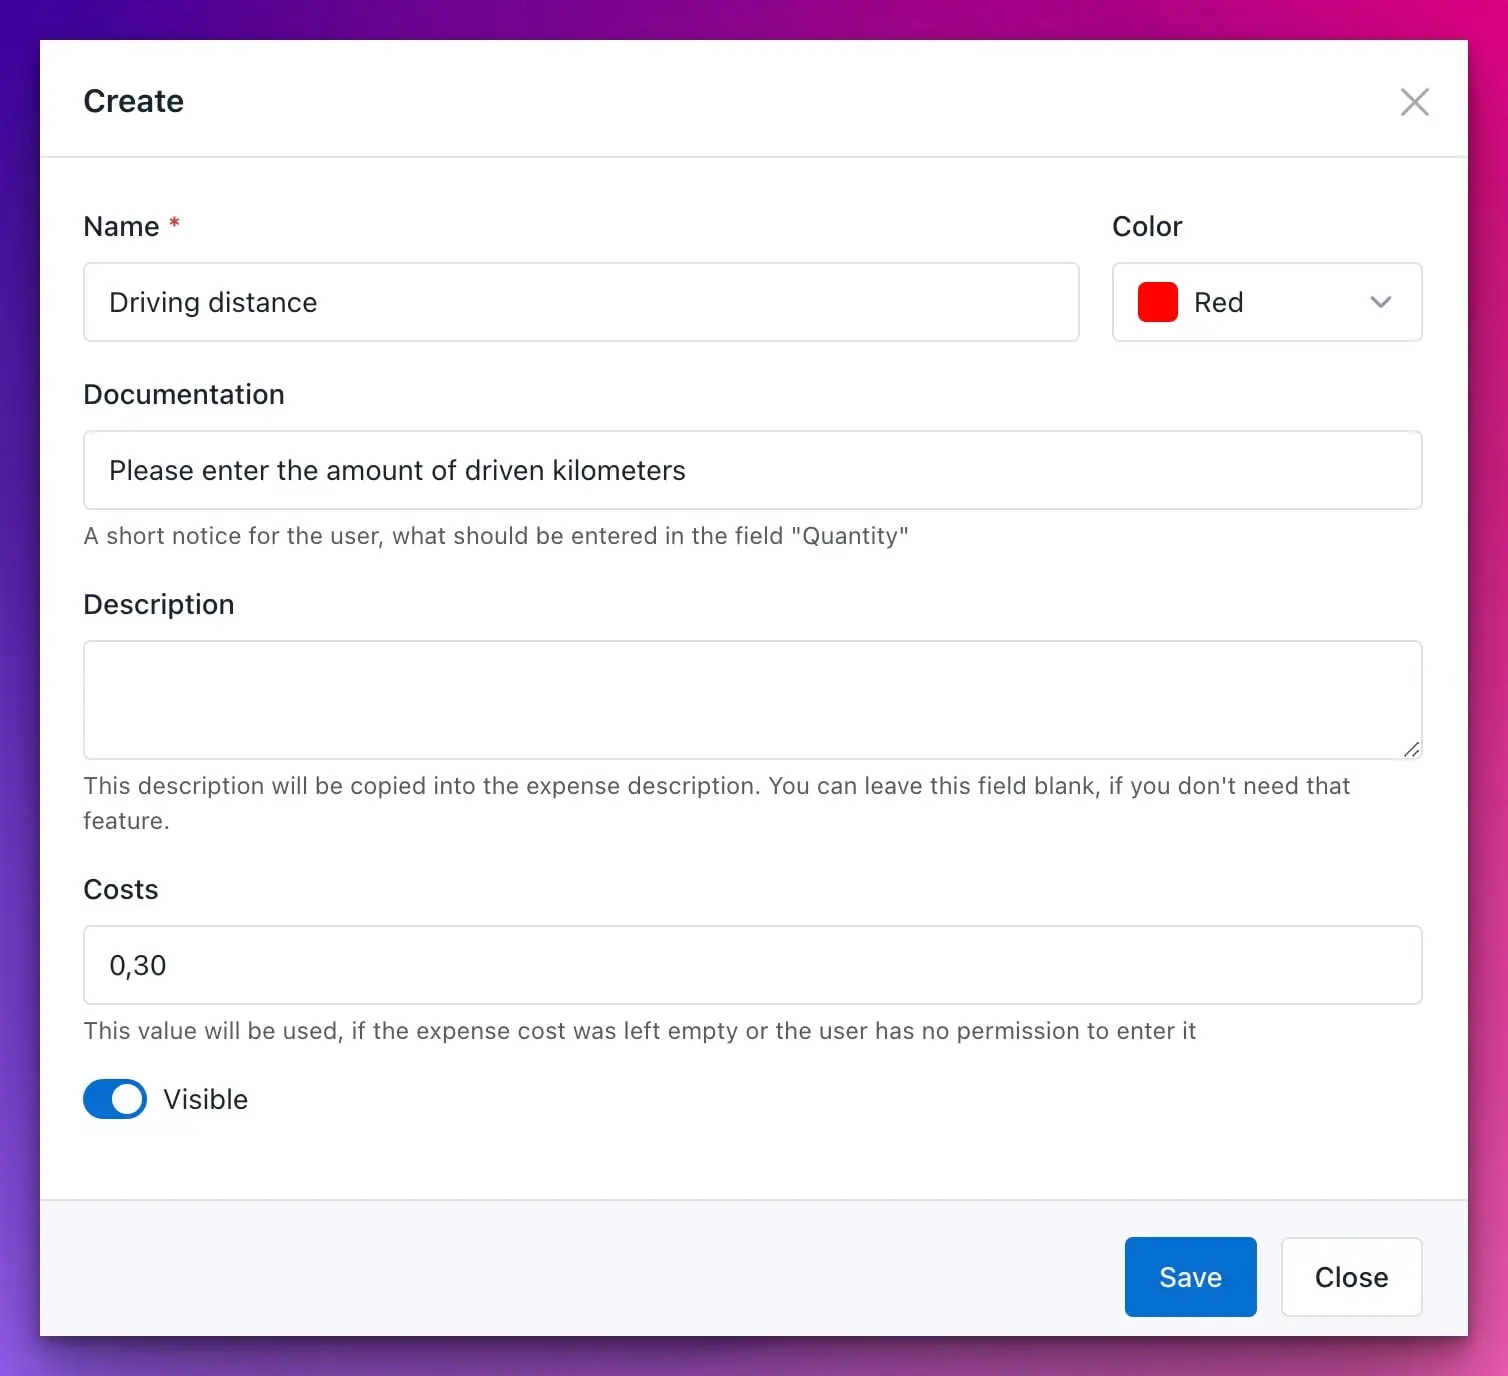
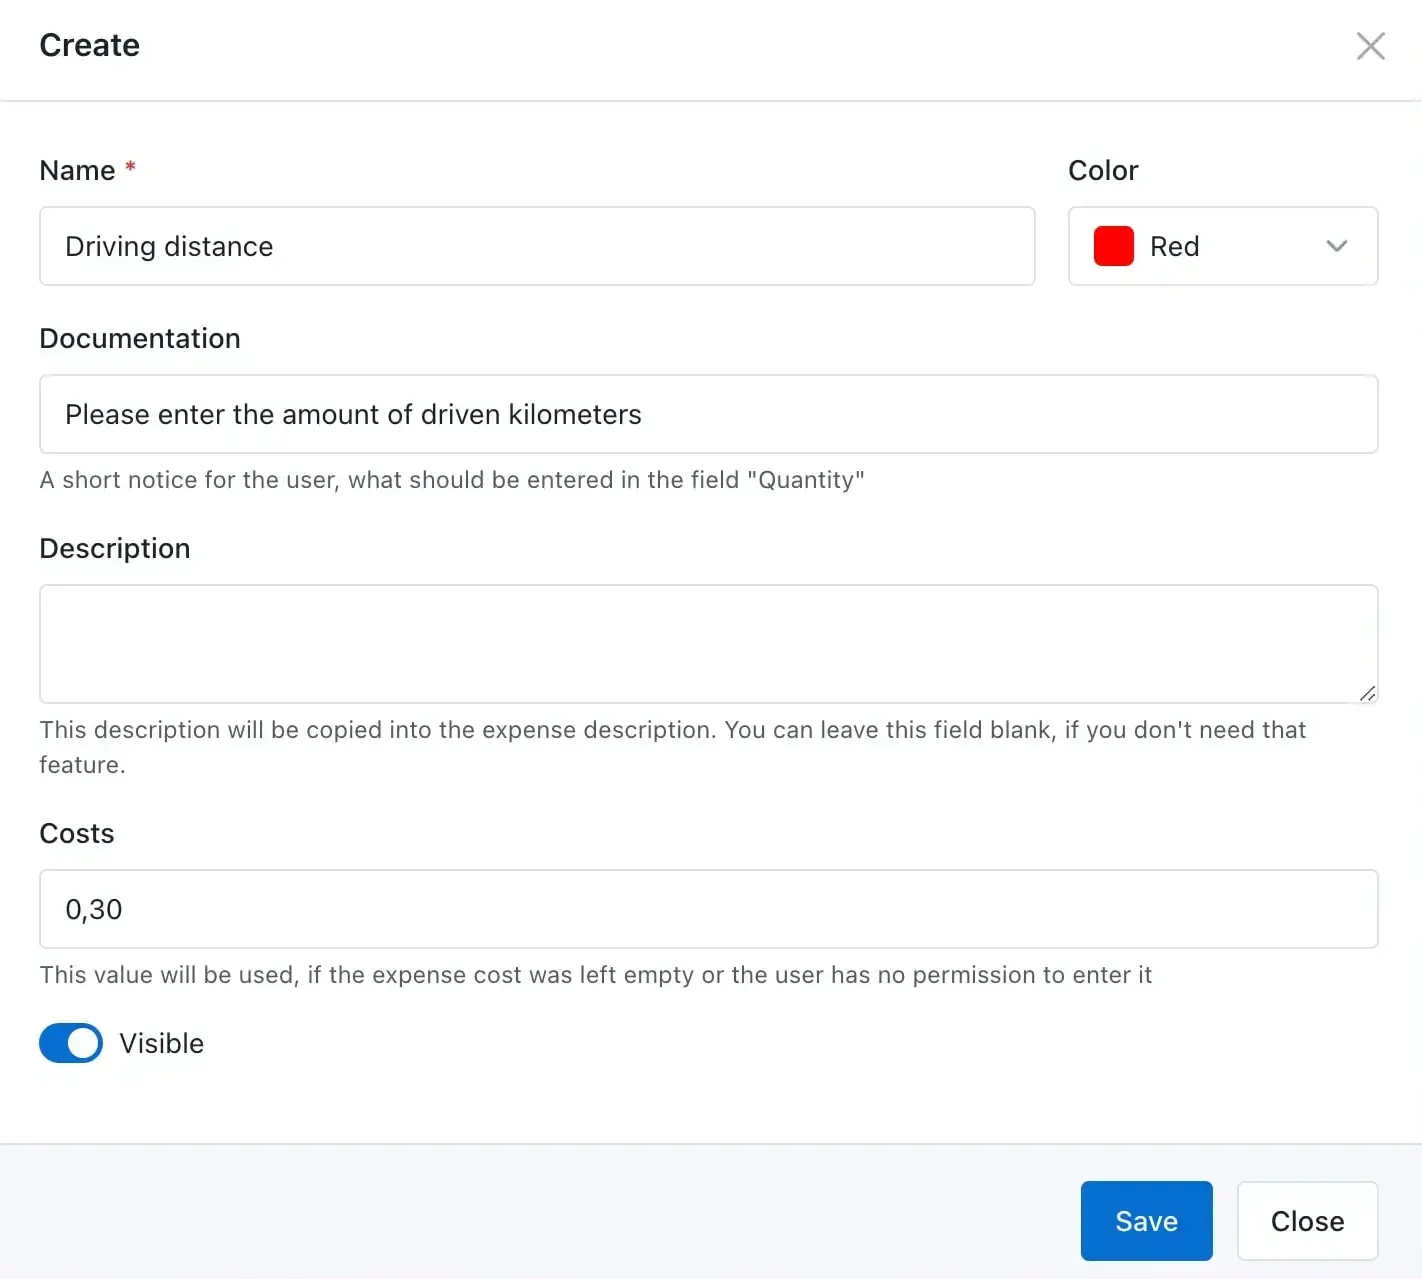
unify documentation images

Changed region(s): [[0.0, 0.0, 1.0, 1.0], [0.7426, 0.122, 0.8354, 0.2439], [0.8973, 0.2134, 0.9283, 0.2439]]

diff --git a/_includes/docs-image.html b/_includes/docs-image.html
@@ -1,5 +1,5 @@
 {% if include.src %}
-<figure class="d-block figure mb-3"{% if include.width %} style="max-width: {{ include.width }}"{% endif %}>
+<figure class="d-block figure mb-3" style="max-width: {% if include.width %}{{ include.width }}{% else %}800px{% endif %}">
     <img src="{{ include.src }}"{% if include.alt %} alt="{{ include.alt }}"{% endif %} class="figure-img img-fluid rounded border border-primary border-3 p-2">
     <figcaption class="figure-caption">{{ include.title }}</figcaption>
 </figure>

diff --git a/collections/_documentation/saml-adfs.md b/collections/_documentation/saml-adfs.md
@@ -88,26 +88,26 @@ kimai:
 
 ### ADFS Setup
 
-{% include docs-image.html src="/images/documentation/adfs-saml-pic1.webp" title="Add Relying Party Trust" width="1000px" %}
-{% include docs-image.html src="/images/documentation/adfs-saml-pic2.webp" title="Select Data Source 1" width="1000px" %}
-{% include docs-image.html src="/images/documentation/adfs-saml-pic3.webp" title="Specific Display Name" width="1000px" %}
-{% include docs-image.html src="/images/documentation/adfs-saml-pic4.webp" title="Choose Access Control Policy" width="1000px" %}
-{% include docs-image.html src="/images/documentation/adfs-saml-pic5.webp" title="Ready to Add Trust" width="1000px" %}
-{% include docs-image.html src="/images/documentation/adfs-saml-pic6.webp" title="Edit Claim Issuance Policy" width="1000px" %}
+{% include docs-image.html src="/images/documentation/adfs-saml-pic1.webp" title="Add Relying Party Trust" %}
+{% include docs-image.html src="/images/documentation/adfs-saml-pic2.webp" title="Select Data Source 1" %}
+{% include docs-image.html src="/images/documentation/adfs-saml-pic3.webp" title="Specific Display Name" %}
+{% include docs-image.html src="/images/documentation/adfs-saml-pic4.webp" title="Choose Access Control Policy" %}
+{% include docs-image.html src="/images/documentation/adfs-saml-pic5.webp" title="Ready to Add Trust" %}
+{% include docs-image.html src="/images/documentation/adfs-saml-pic6.webp" title="Edit Claim Issuance Policy" %}
 
 **Rule Template for Attributes**
 
-{% include docs-image.html src="/images/documentation/adfs-saml-pic7.webp" title="Send LDAP Attributes as Claims" width="1000px" %}
-{% include docs-image.html src="/images/documentation/adfs-saml-pic8.webp" title="Edit Rule - Attributes" width="1000px" %}
+{% include docs-image.html src="/images/documentation/adfs-saml-pic7.webp" title="Send LDAP Attributes as Claims" %}
+{% include docs-image.html src="/images/documentation/adfs-saml-pic8.webp" title="Edit Rule - Attributes" %}
 
 **Rule Template for Groups**
 
-{% include docs-image.html src="/images/documentation/adfs-saml-pic9.webp" title="Send Group Memberships as a Claim" width="1000px" %}
-{% include docs-image.html src="/images/documentation/adfs-saml-pic10.webp" title="Configure Claim Rule for Groups" width="1000px" %}
+{% include docs-image.html src="/images/documentation/adfs-saml-pic9.webp" title="Send Group Memberships as a Claim" %}
+{% include docs-image.html src="/images/documentation/adfs-saml-pic10.webp" title="Configure Claim Rule for Groups" %}
 
 **Apply Claim Issuance Policy**
 
-{% include docs-image.html src="/images/documentation/adfs-saml-pic11.webp" title="Apply Claim Issuance Policy" width="1000px" %}
+{% include docs-image.html src="/images/documentation/adfs-saml-pic11.webp" title="Apply Claim Issuance Policy" %}
 
 ### Test
 You should now be able to test the Login by visiting **https://timetracking.example.com/** and clicking on the `Login With ADFS` title of the SAML method, you defined earlier.

diff --git a/collections/_documentation/saml-azure.md b/collections/_documentation/saml-azure.md
@@ -29,11 +29,11 @@ This documentation is available in other languages as well [in the Microsoft doc
   **Note**: The name of the application has no technical effect, but could be displayed to users during login.
 - On the left navigation panel, select the **Microsoft Entra ID** service.
 - Navigate to **Enterprise Applications** and search for the app you just created
-{% include docs-image.html src="/images/documentation/azure-saml-pic1.webp" title="Find Kimai enterprise app" width="900px" %}
+{% include docs-image.html src="/images/documentation/azure-saml-pic1.webp" title="Find Kimai enterprise app" %}
 - Now navigate to **Single sign-on** on the left navigation and choose **SAML** as your choice: 
-{% include docs-image.html src="/images/documentation/azure-saml-pic2.webp" title="Select SAML" width="900px" %}
+{% include docs-image.html src="/images/documentation/azure-saml-pic2.webp" title="Select SAML" %}
 - Edit the **Basic SAML Configuration** at the top and add the required **URLs**:
-{% include docs-image.html src="/images/documentation/azure-saml-pic3.webp" title="Basic SAML configuration" width="900px" %}
+{% include docs-image.html src="/images/documentation/azure-saml-pic3.webp" title="Basic SAML configuration" %}
 
 | Setting                                    | Value                                               |
 |--------------------------------------------|-----------------------------------------------------|
@@ -44,11 +44,11 @@ This documentation is available in other languages as well [in the Microsoft doc
 {: .table }
 
 - Edit the **User Attributes & Claims** and ensure the following settings:
-{% include docs-image.html src="/images/documentation/azure-saml-pic4.webp" title="User Attributes & Claims" width="900px" %}
+{% include docs-image.html src="/images/documentation/azure-saml-pic4.webp" title="User Attributes & Claims" %}
 - Return to the **Single Sign-On** (visible in the left navigation panel) and download **Certificate (Base64)**:
-{% include docs-image.html src="/images/documentation/azure-saml-pic6.webp" title="Download Certificate" width="900px" %}
+{% include docs-image.html src="/images/documentation/azure-saml-pic6.webp" title="Download Certificate" %}
 - Copy the three values of **Set up Kimai**, as we will need them to configure Kimai:
-{% include docs-image.html src="/images/documentation/azure-saml-pic7.webp" title="Copy Azure URLs" width="900px" %}
+{% include docs-image.html src="/images/documentation/azure-saml-pic7.webp" title="Copy Azure URLs" %}
 
 ### Kimai Configuration
 
@@ -142,7 +142,7 @@ The example values for the group mapping from above:
 ```
 
 would lead with this Azure configuration
-{% include docs-image.html src="/images/documentation/azure-saml-groups.webp" title="Group IDs" width="900px" %}
+{% include docs-image.html src="/images/documentation/azure-saml-groups.webp" title="Group IDs" %}
 
 to this configuration:
 ```

diff --git a/collections/_documentation/saml-keycloak.md b/collections/_documentation/saml-keycloak.md
@@ -21,12 +21,12 @@ Screenshots might be outdated, please check the text version below each image.
 
 ## Add a client for Kimai SAML
 
-{% include docs-image.html src="/images/documentation/keycloak-saml-1.webp" title="Add a client" width="800px" %}
+{% include docs-image.html src="/images/documentation/keycloak-saml-1.webp" title="Add a client" %}
 
 ## Configure the client
 
-{% include docs-image.html src="/images/documentation/keycloak-saml-2.webp" title="Enable *Client Signature Required* (1)" width="900px" %}
-{% include docs-image.html src="/images/documentation/keycloak-saml-3.webp" title="Enable *Client Signature Required* (2)" width="900px" %}
+{% include docs-image.html src="/images/documentation/keycloak-saml-2.webp" title="Enable *Client Signature Required* (1)" %}
+{% include docs-image.html src="/images/documentation/keycloak-saml-3.webp" title="Enable *Client Signature Required* (2)" %}
 
 **Note**: The working setup uses **Client Signature Required** enabled, which works with signed AuthnRequests (`authnRequestsSigned: true` in Kimai configuration).
 
@@ -51,10 +51,10 @@ Remove the default `role list`, then add:
 - **X500 givenName** → `SAML Attribute Name: FirstName`, `SAML Attribute NameFormat: Unspecified`
 - **Role list** → `Role attribute name: Roles`, `SAML Attribute NameFormat: Unspecified`, `Single Role Attribute: On`
 
-{% include docs-image.html src="/images/documentation/keycloak-saml-4.webp" title="Kimai user attributes (listing)" width="1000px" %}
-{% include docs-image.html src="/images/documentation/keycloak-saml-5.webp" title="Kimai user attributes (X500 GivenName)" width="700px" %}
-{% include docs-image.html src="/images/documentation/keycloak-saml-6.webp" title="Kimai user attributes (X500 Surname)" width="700px" %}
-{% include docs-image.html src="/images/documentation/keycloak-saml-7.webp" title="Kimai user attributes (X500 Email)" width="700px" %}
+{% include docs-image.html src="/images/documentation/keycloak-saml-4.webp" title="Kimai user attributes (listing)" %}
+{% include docs-image.html src="/images/documentation/keycloak-saml-5.webp" title="Kimai user attributes (X500 GivenName)" %}
+{% include docs-image.html src="/images/documentation/keycloak-saml-6.webp" title="Kimai user attributes (X500 Surname)" %}
+{% include docs-image.html src="/images/documentation/keycloak-saml-7.webp" title="Kimai user attributes (X500 Email)" %}
 
 ## Client Scopes / Roles
 

diff --git a/collections/_documentation/cloud/cloud-saml.md b/collections/_documentation/cloud/cloud-saml.md
@@ -70,11 +70,11 @@ You can use other names for your groups, the mapping happens in the next step in
 
 This screenshot is a showcase of the attribute mapping including groups:
 
-{% include docs-image.html src="/images/documentation/cloud/saml-google-attributes.webp" title="Google - SAMl attribute mapping" width="800px" %}
+{% include docs-image.html src="/images/documentation/cloud/saml-google-attributes.webp" title="Google - SAMl attribute mapping" %}
 
 ### <span id="google-cloud"></span> Cloud configuration
 
-{% include docs-image.html src="/images/documentation/cloud/saml-google-cloud.webp" title="Google - Cloud configuration" width="800px" %}
+{% include docs-image.html src="/images/documentation/cloud/saml-google-cloud.webp" title="Google - Cloud configuration" %}
 
 ## <span id="microsoft-saml"></span> Microsoft SAML
 
@@ -108,7 +108,7 @@ This screenshot is a showcase of the attribute mapping including groups:
     - Microsoft Entra Identifier: `Azure AD Identifier (SAML Entity ID)`
 
 **Configure "Attributes & Claims":**
-{% include docs-image.html src="/images/documentation/cloud/saml-azure-attributes.webp" title="Azure - Attributes & Claims" width="800px" %}
+{% include docs-image.html src="/images/documentation/cloud/saml-azure-attributes.webp" title="Azure - Attributes & Claims" %}
 
 **Configure "Groups":**
 - In the "Azure Active Directory" section, choose "Groups" from the navigation.
@@ -117,11 +117,11 @@ This screenshot is a showcase of the attribute mapping including groups:
     - Set the name `Kimai Admin` and add members
     - Set the name `Kimai System-Admin` and add members
 - Copy & paste the `Object Id` of each group into the Cloud configuration (see screenshot below).
-  {% include docs-image.html src="/images/documentation/cloud/saml-azure-groups.webp" title="Azure - Groups" width="800px" %}
+  {% include docs-image.html src="/images/documentation/cloud/saml-azure-groups.webp" title="Azure - Groups" %}
 
 ### <span id="microsoft-cloud"></span> Cloud configuration
 
-{% include docs-image.html src="/images/documentation/cloud/saml-azure-cloud.webp" title="Azure - Cloud configuration" width="800px" %}
+{% include docs-image.html src="/images/documentation/cloud/saml-azure-cloud.webp" title="Azure - Cloud configuration" %}
 
 ## <span id="keycloak-saml"></span> Keycloak SAML
 

diff --git a/_includes/snippets/rates.md b/_includes/snippets/rates.md
@@ -5,7 +5,7 @@ Please read the [price documentation]({% link _documentation/configurations.md %
 On the detail page of the selected item (which you find by clicking a row in the listing table or select `Show` from the dropdown menu) 
 you find the `Hourly price` section. By default, you see the message `No prices have been configured`.
 
-{% include docs-image.html src="/images/documentation/rates-section.webp" title="Price section table" width="700px" %}
+{% include docs-image.html src="/images/documentation/rates-section.webp" title="Price section table" width="800px" %}
 
 You configure new price rules by clicking the `+` button in the upper-right of the `Prices` table.
 
@@ -17,7 +17,7 @@ A user needs the two permissions to be able to see and edit prices:
 
 The `edit price` screen has four settings:
 
-{% include docs-image.html src="/images/documentation/rates-edit.webp" title="Edit price screen" width="700px" %}
+{% include docs-image.html src="/images/documentation/rates-edit.webp" title="Edit price screen" width="800px" %}
 
 - `User` - the user this price applies to - if no user is chosen it applies to everyone without explicit personal rule  
 - `Price` - the price to be charged (per hour)
@@ -36,7 +36,7 @@ Every rule the defines a user is a `user specific price` and those always win ov
 
 The following example contains two price rules:
 
-{% include docs-image.html src="/images/documentation/rates-example.webp" title="A sample rates configuration" width="900px" %}
+{% include docs-image.html src="/images/documentation/rates-example.webp" title="Sample rates configuration" width="800px" %}
 
 The first one is a `Catch-all price` that applies to everyone who is recording times for this {{include.permission}}. 
 So every hour counts with 50 € towards the budget of this {{include.permission}} and has internal costs of 25 €.

diff --git a/collections/_documentation/plugin-expenses.md b/collections/_documentation/plugin-expenses.md
@@ -42,16 +42,16 @@ In that case the `quantity` represents the amount on the receipt.
 ### Example
 
 The following example illustrates this process:  
-{% include docs-image.html src="/images/documentation/expenses/expense-category.webp" title="One expense category" width="750px" %}
+{% include docs-image.html src="/images/documentation/expenses/expense-category.webp" title="One expense category" %}
 
 The category `Driving distance` is designed to track travel routes between the office and a client location. The cost is set at `0.30` per kilometer.
 
 Now, let’s assume a user creates an expense using the new `Driving distance` category and enters a quantity of `74`, as shown in the screenshot below:  
-{% include docs-image.html src="/images/documentation/expenses/expense.webp" title="The expense is using the previously created category" width="750px" %}
+{% include docs-image.html src="/images/documentation/expenses/expense.webp" title="The expense is using the previously created category" %}
 
 In this case, the entered quantity of `74` kilometers is multiplied by the cost of `0.30`, resulting in a total amount of `22.20 €`.
 
-{% include docs-image.html src="/images/documentation/expenses/listing.webp" title="The expense with costs" width="750px" %}
+{% include docs-image.html src="/images/documentation/expenses/listing.webp" title="The expense with costs" %}
 
 ## Invoices
 

diff --git a/collections/_documentation/plugin-translation.md b/collections/_documentation/plugin-translation.md
@@ -30,15 +30,15 @@ But if you create a translation in `de`, your new translation will also be visib
 
 The main translation page shows a listing of all translated contents, grouped by their language:
 
-{% include docs-image.html src="/images/marketplace/translation-listing.webp" title="List all adjusted translations" width="1200px" %}
+{% include docs-image.html src="/images/marketplace/translation-listing.webp" title="List all adjusted translations" %}
 
 The add dialog allows to find a string by typing in the `Default translation` field and then you can enter your custom translation in `New translation`:
 
-{% include docs-image.html src="/images/marketplace/translation-add.webp" title="Select the text to change and enter your custom translation" width="800px" %}
+{% include docs-image.html src="/images/marketplace/translation-add.webp" title="Select the text to change and enter your custom translation" %}
 
 The edit dialog allows to change your custom translation:
 
-{% include docs-image.html src="/images/marketplace/translation-edit.webp" title="Change your custom translation" width="800px" %}
+{% include docs-image.html src="/images/marketplace/translation-edit.webp" title="Change your custom translation" %}
 
 ## Permissions
 

diff --git a/collections/_documentation/cloud/cloud-custom-domain.md b/collections/_documentation/cloud/cloud-custom-domain.md
@@ -16,7 +16,7 @@ You have to create a so-called CNAME (short for "Canonical name") entry, with yo
 
 Here is an example screenshot of such a DNS setting:
 
-{% include docs-image.html src="/images/documentation/cloud/custom-domain.webp" title="Configure your DNS" width="800px" %}
+{% include docs-image.html src="/images/documentation/cloud/custom-domain.webp" title="Configure your DNS" %}
 
 It is unlikely that you need it in this syntax, but in "technical speech" this would be:
 ```
@@ -38,7 +38,7 @@ You can also point to a top-level domain, it doesn't have to be a subdomain.
 
 In the last step you enter your domain in your profile under **Custom domain**:
 
-{% include docs-image.html src="/images/documentation/cloud/custom-domain-form.webp" title="Configure your CNAME" width="800px" %}
+{% include docs-image.html src="/images/documentation/cloud/custom-domain-form.webp" title="Configure your CNAME" %}
 
 It usually takes a couple of hours until our system are able to utilize this new domain, especially if you tested the integration before creating the DNS entry.
 In that case our servers will have to wait until new DNS information are available (the waiting time depends on your TTL).

diff --git a/collections/_documentation/webserver-configuration.md b/collections/_documentation/webserver-configuration.md
@@ -179,13 +179,13 @@ Create a standard website in IIS with document root set to your Kimai directory,
 Make sure `memory_limit` is set to a minimum of 256M.
 Set appropriate handler mappings as below:
 
-{% include docs-image.html src="/images/documentation/iis-handler-mappings.webp" title="Handler Mappings" width="700px" %}
+{% include docs-image.html src="/images/documentation/iis-handler-mappings.webp" title="Handler Mappings" %}
 
 Under `Request restrictions` you have to select the `Verbs` tab. 
 Here you can select `All verbs` or the following using the option “One of the following verbs:”
 `HEAD,POST,GET,PUT,PATCH,DELETE`
 
-{% include docs-image.html src="/images/documentation/iis-request-restrictions.webp" title="Request restrictions" width="600px" %}
+{% include docs-image.html src="/images/documentation/iis-request-restrictions.webp" title="Request restrictions" %}
 
 This is important, as the API requires those methods: you would not be able to use Kimai properly, e.g. stop timesheets.
 

diff --git a/collections/_documentation/activity.md b/collections/_documentation/activity.md
@@ -94,7 +94,7 @@ Activities follow a hierarchical permission model:
 
 ## Activity listing
 
-{% include docs-image.html src="/images/documentation/activity-filter.webp" title="Activity toolbar filter" width="700px" %}
+{% include docs-image.html src="/images/documentation/activity-filter.webp" title="Activity toolbar filter" %}
 
 The **Visible** filter in the toolbar has three states:
 - `Yes` - all visible activities: the activity itself and (if non-global) its project and customer are visible
@@ -108,7 +108,7 @@ But you can use the activity filter to show all or only invisible activities.
 
 Invisible activity will be highlighted in the listing table:
 
-{% include docs-image.html src="/images/documentation/listing-invisible-entry.webp" title="Visible and invisible activities in the activity listing" width="700px" %}
+{% include docs-image.html src="/images/documentation/listing-invisible-entry.webp" title="Visible and invisible activities in the activity listing" %}
 
 ### Filter and search
 

diff --git a/collections/_documentation/customer.md b/collections/_documentation/customer.md
@@ -105,7 +105,7 @@ The visibility filter in the toolbar has three state:
 
 ## Customer listing
 
-{% include docs-image.html src="/images/documentation/customer-filter.webp" title="Customer toolbar filter" width="700px" %}
+{% include docs-image.html src="/images/documentation/customer-filter.webp" title="Customer toolbar filter" %}
 
 The **Visible** filter in the toolbar has three states:
 - `Yes` - all visible customer
@@ -119,7 +119,7 @@ But you can use the customer filter to show all or only invisible customers.
 
 Invisible customers will be highlighted in the listing table:
 
-{% include docs-image.html src="/images/documentation/listing-invisible-entry.webp" title="Visible and invisible customers in the customer listing" width="700px" %}
+{% include docs-image.html src="/images/documentation/listing-invisible-entry.webp" title="Visible and invisible customers in the customer listing" %}
 
 ### Filter and search 
 
